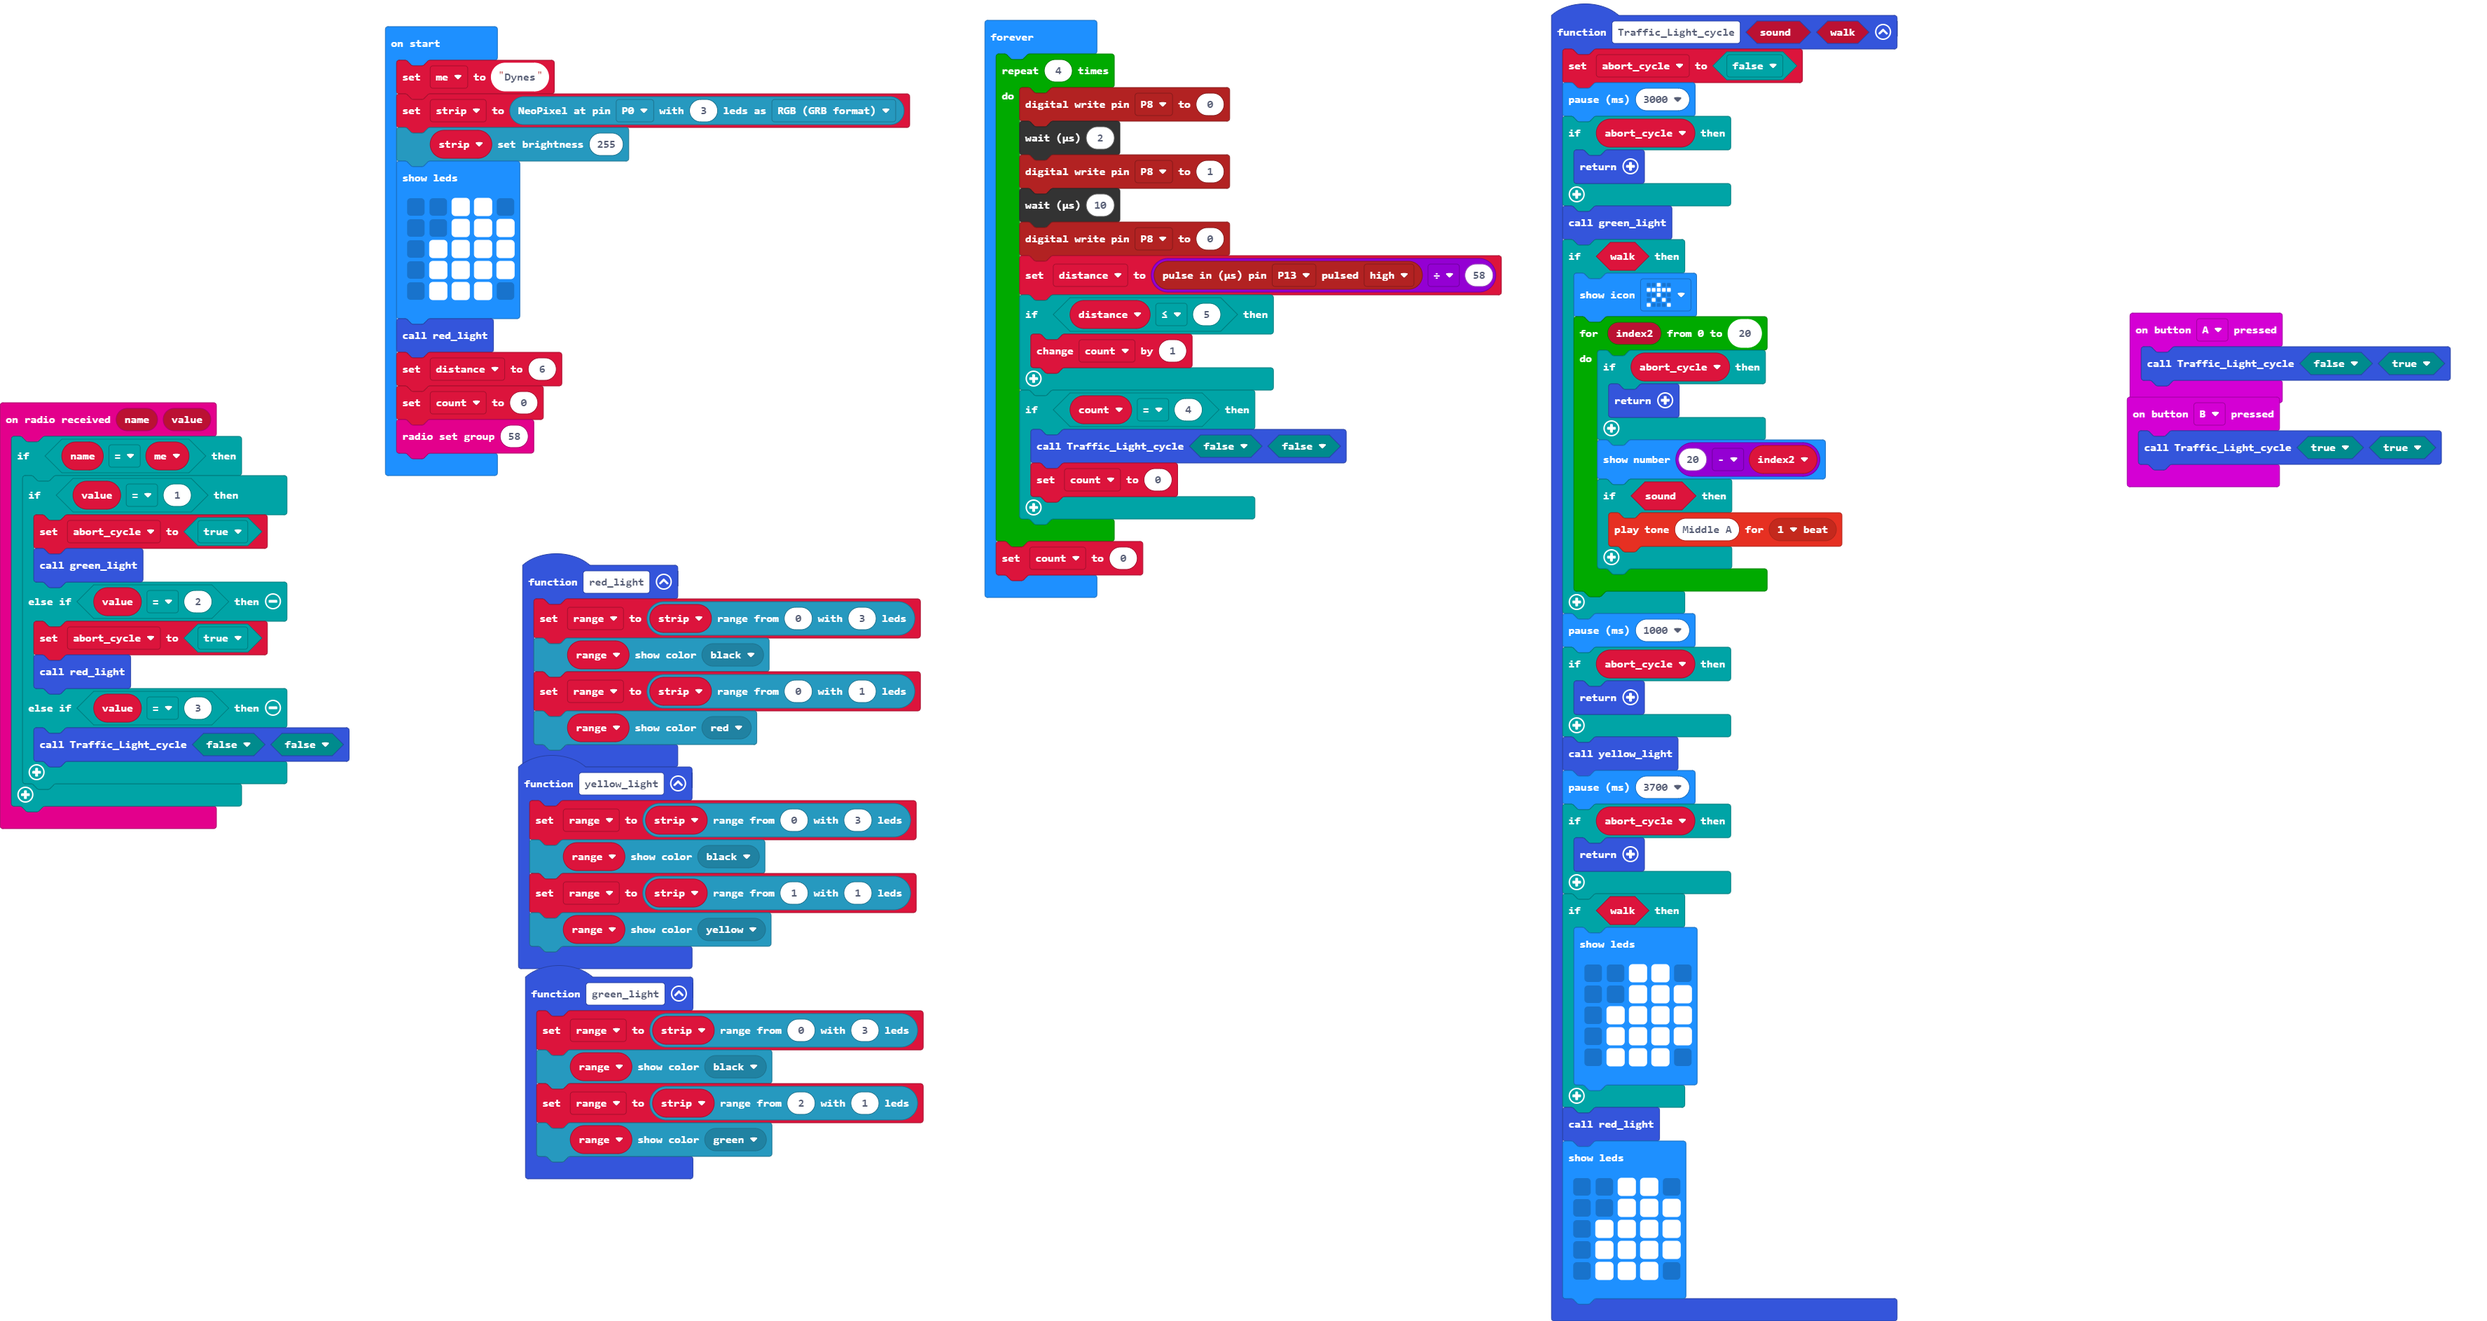
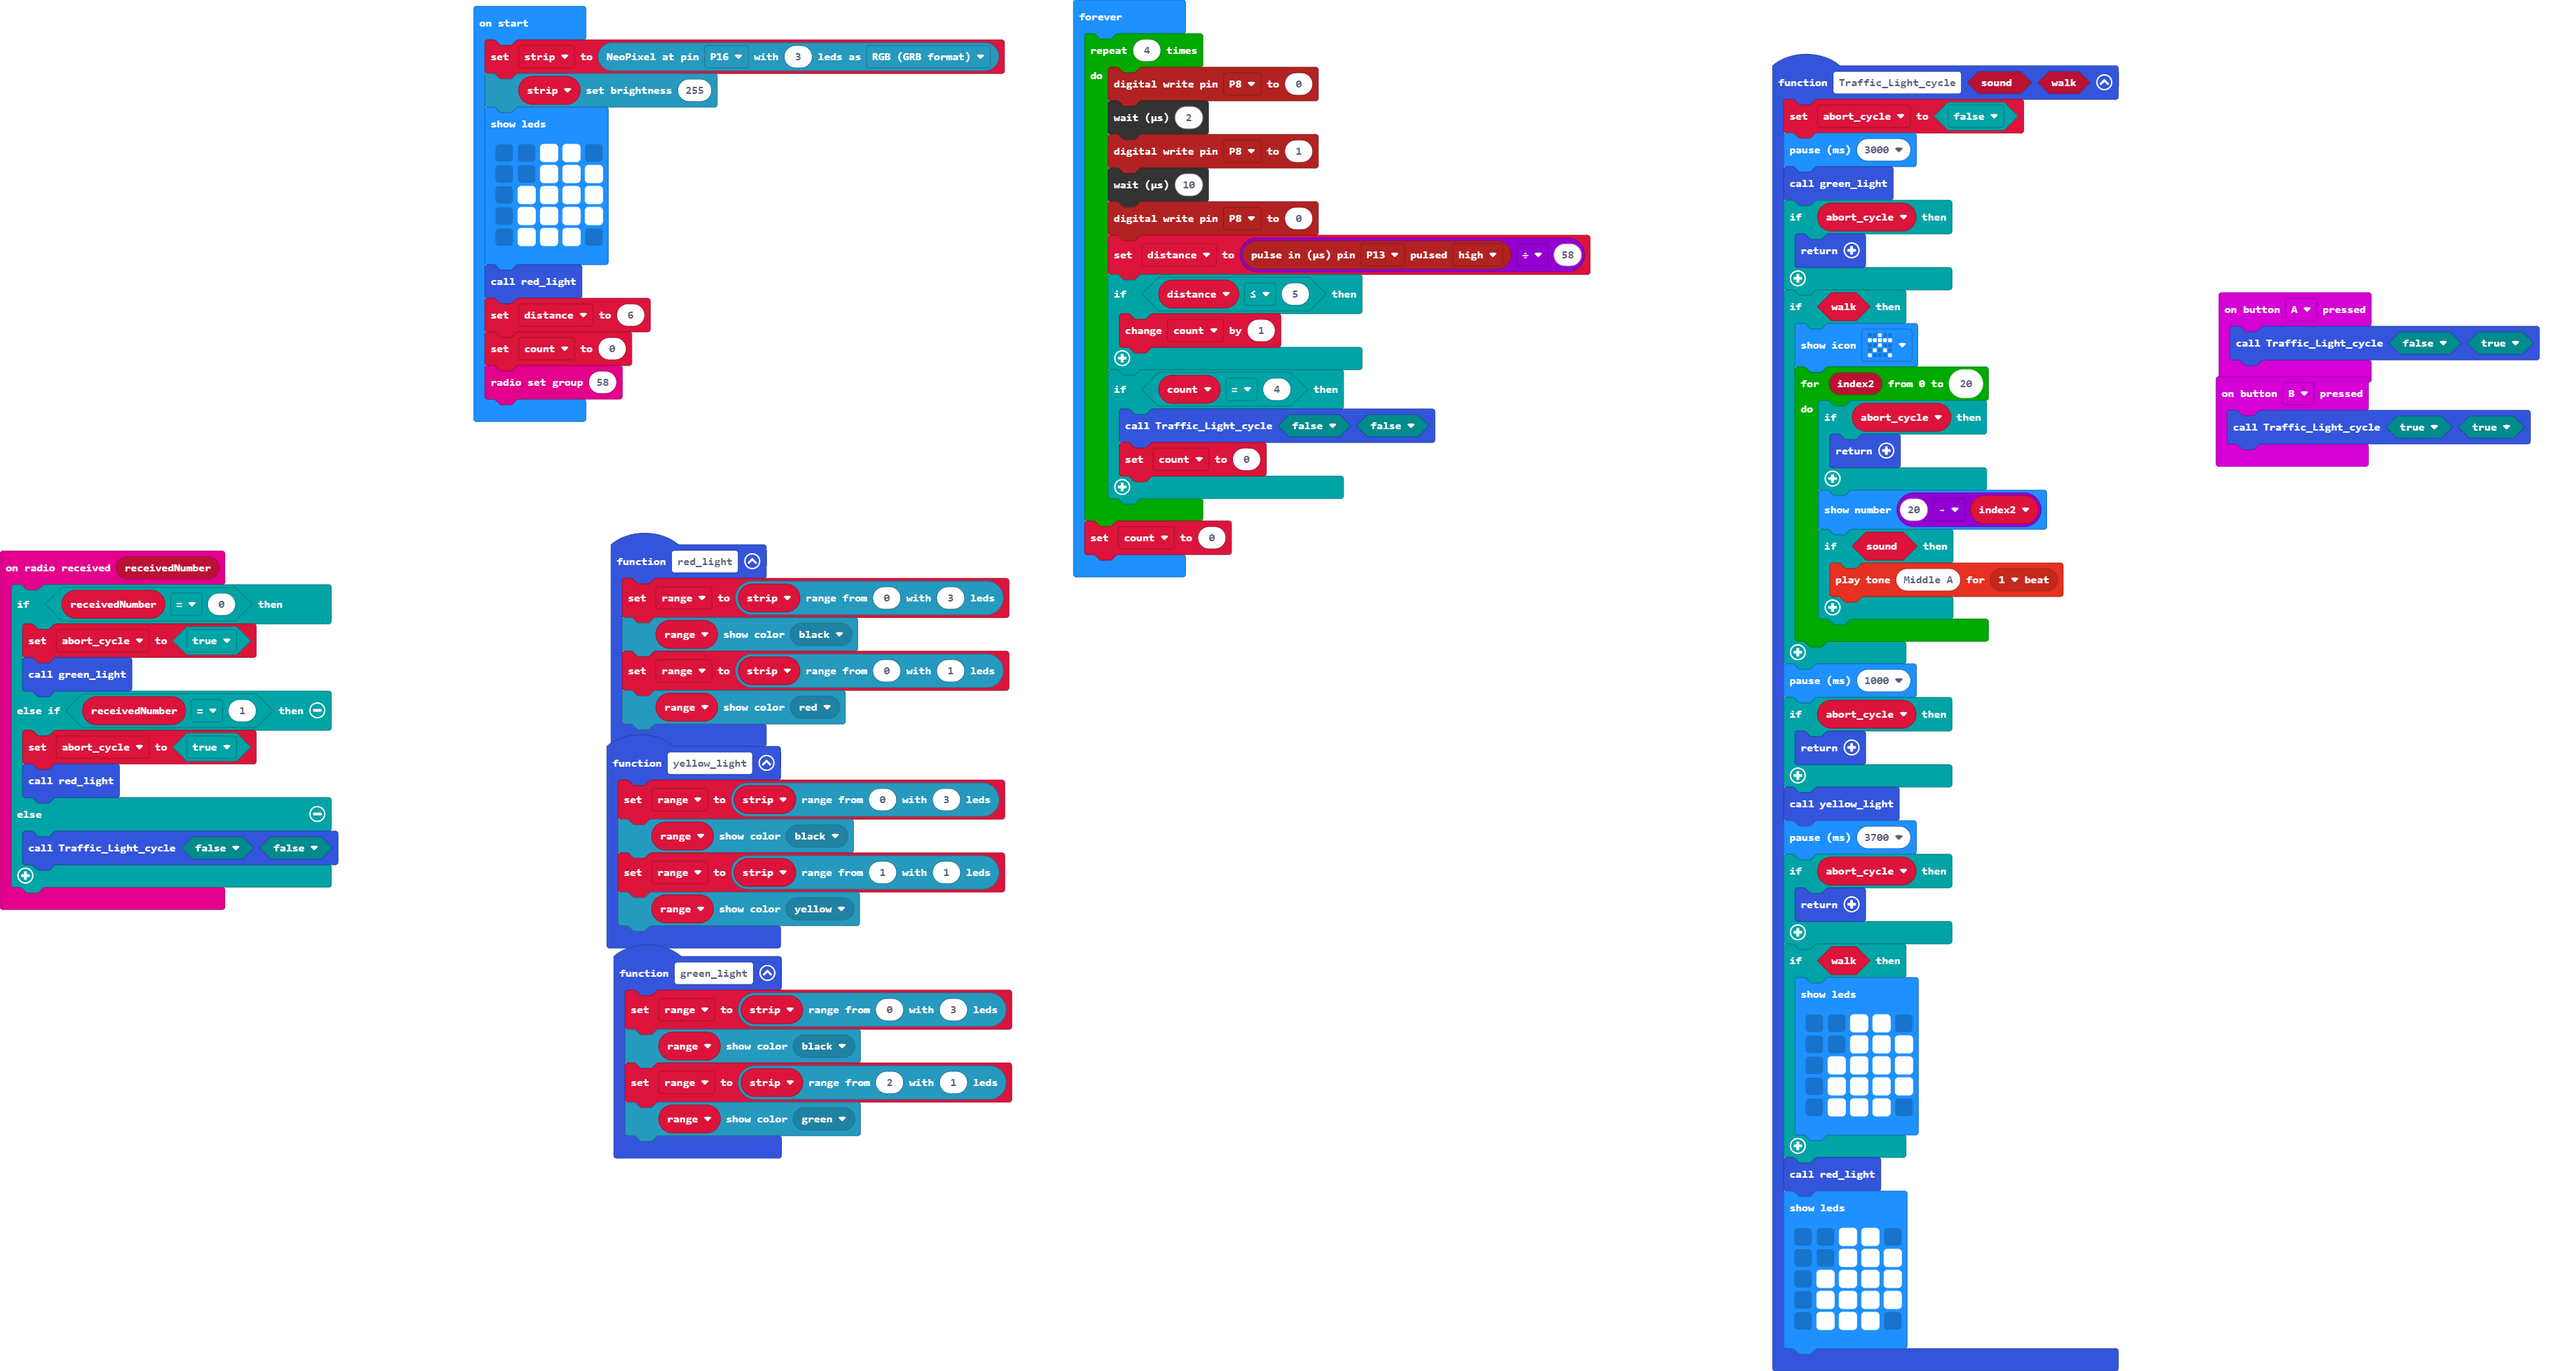
School changes

diff --git a/main.ts b/main.ts
@@ -1,3 +1,14 @@
+radio.onReceivedNumber(function (receivedNumber) {
+    if (receivedNumber == 0) {
+        abort_cycle = true
+        green_light()
+    } else if (receivedNumber == 1) {
+        abort_cycle = true
+        red_light()
+    } else {
+        Traffic_Light_cycle(false, false)
+    }
+})
 function green_light () {
     range = strip.range(0, 3)
     range.showColor(neopixel.colors(NeoPixelColors.Black))
@@ -10,10 +21,10 @@ input.onButtonPressed(Button.A, function () {
 function Traffic_Light_cycle (sound_: boolean, walk: boolean) {
     abort_cycle = false
     basic.pause(3000)
+    green_light()
     if (abort_cycle) {
         return
     }
-    green_light()
     if (walk) {
         basic.showIcon(IconNames.StickFigure)
         for (let index2 = 0; index2 <= 20; index2++) {
@@ -62,31 +73,16 @@ function red_light () {
     range = strip.range(0, 1)
     range.showColor(neopixel.colors(NeoPixelColors.Red))
 }
-radio.onReceivedValue(function (name, value) {
-    if (name == me) {
-        if (value == 1) {
-            abort_cycle = true
-            green_light()
-        } else if (value == 2) {
-            abort_cycle = true
-            red_light()
-        } else if (value == 3) {
-            Traffic_Light_cycle(false, false)
-        }
-    }
-})
 function yellow_light () {
     range = strip.range(0, 3)
     range.showColor(neopixel.colors(NeoPixelColors.Black))
     range = strip.range(1, 1)
     range.showColor(neopixel.colors(NeoPixelColors.Yellow))
 }
-let abort_cycle = false
 let range: neopixel.Strip = null
+let abort_cycle = false
 let strip: neopixel.Strip = null
-let me = ""
-me = "Dynes"
-strip = neopixel.create(DigitalPin.P0, 3, NeoPixelMode.RGB)
+strip = neopixel.create(DigitalPin.P16, 3, NeoPixelMode.RGB)
 strip.setBrightness(255)
 basic.showLeds(`
     . . # # .
